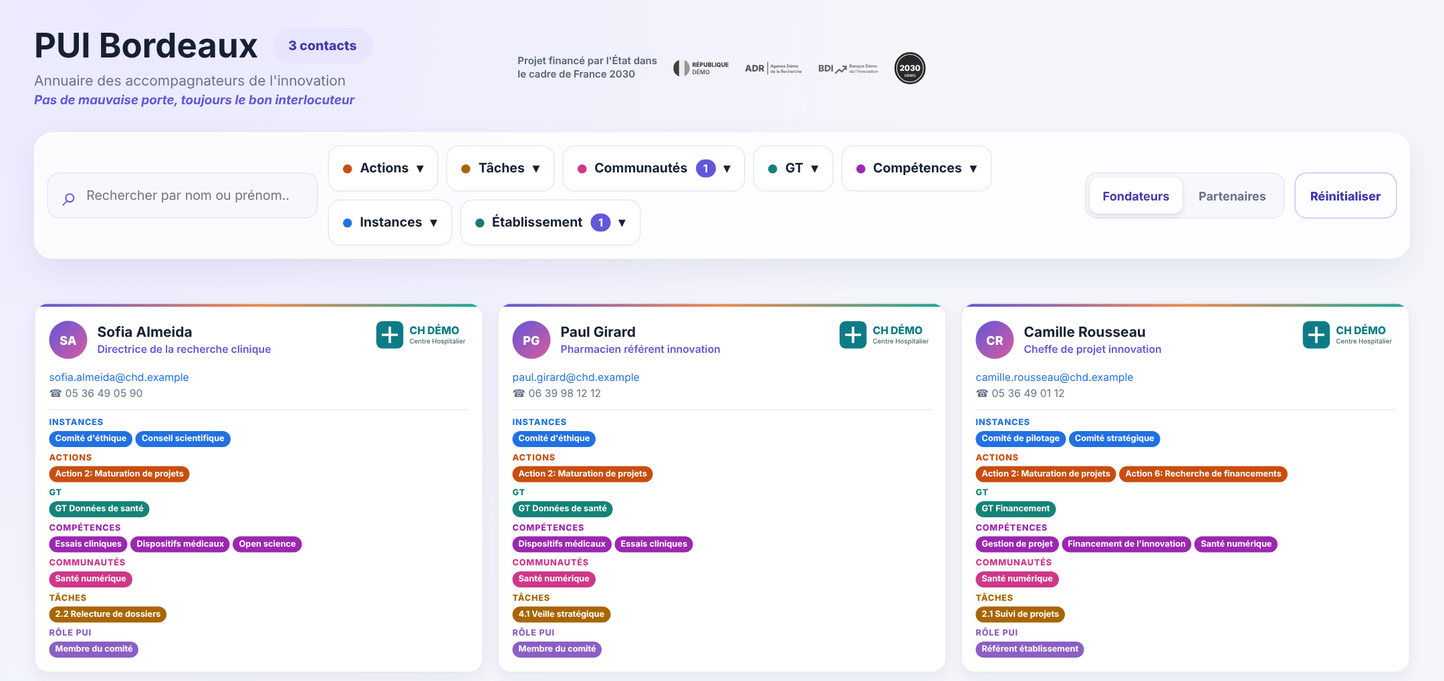
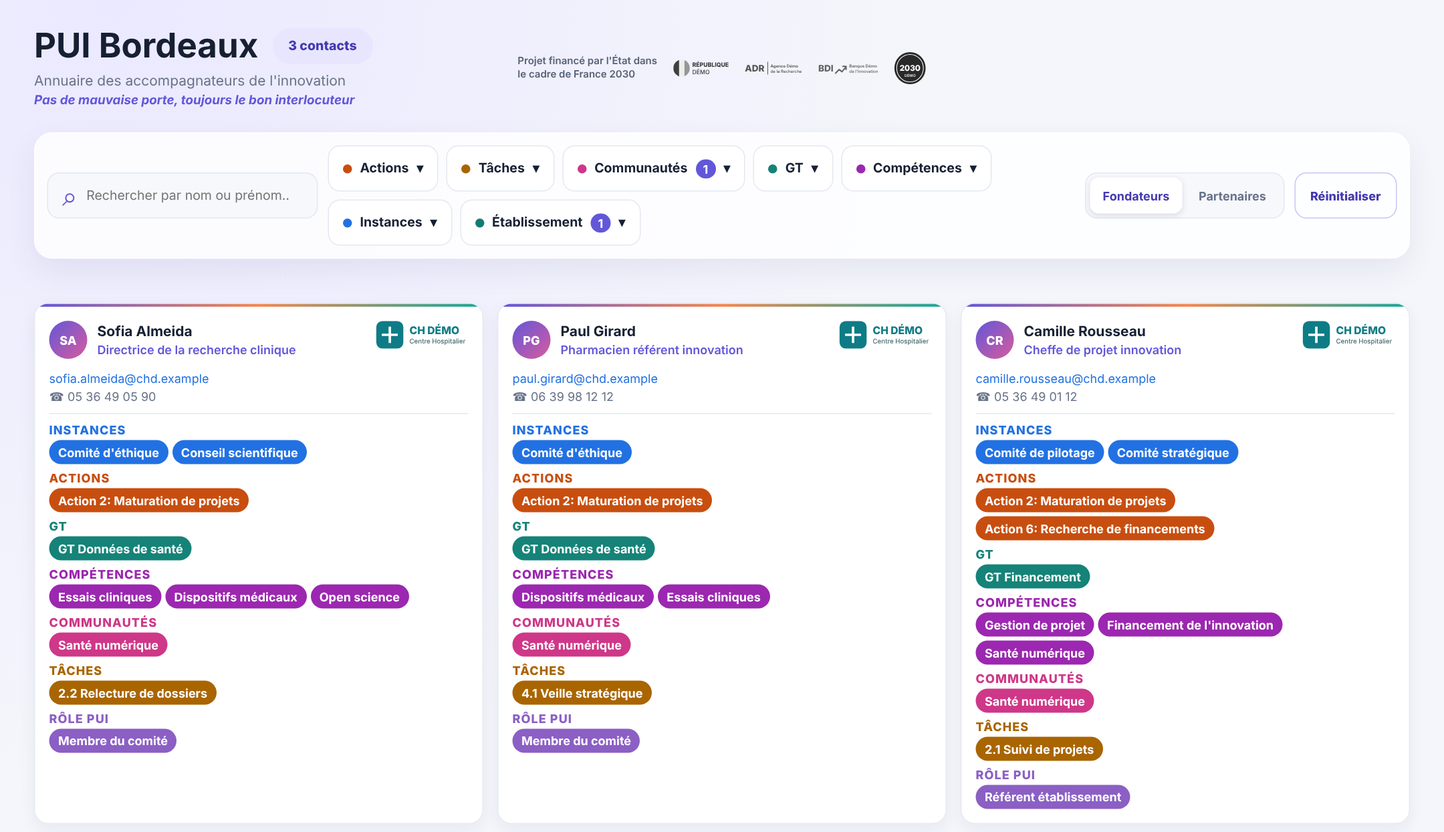
Documente la 1.17.1 (texte de 12 px, pastilles de 24 px) et refait quinze captures
CHANGELOG, VERSION, TESTING (sections 12 et 15), guide développeur, guide
utilisateur et spécifications. Le capturer s'adapte aux cartes plus hautes : la
légende demande une fenêtre de 3 600 px, la relecture lève le plafond de 900 px
de la fenêtre le temps de la capture.

Claude-Session: https://claude.ai/code/session_01BNmTXMLnSaUb1ryMSiNH6K

diff --git a/docs/developpeurs.md b/docs/developpeurs.md
@@ -554,7 +554,7 @@ La gestion du jeton est volontairement prudente, parce que Grist ne met pas ses 
 - `createFilterUI()` construit tous les menus (`buildFilter()` → `buildFilterMenu()` → `buildOption()`). Chaque option porte sa valeur dans `data-value` : le texte affiché n'est pas la source. L'infobulle du bouton (`hint`) et le texte d'invite du champ de recherche (`placeholder`) sont ceux du regroupement du menu (`macro` pour Compétences, `macroTaches` pour Tâches), et seulement tant que le menu est rangé par groupe (`groupingWording()`) : resté à plat, il garde « Rechercher dans … » et n'a pas d'infobulle. Le texte d'invite est assez court pour ne pas être coupé dans un menu de 270px : un test en fixe la longueur.
 - **Le menu rangé par groupe** (`buildGroupedMenu()` → `buildGroup()`, quand `menuGroups()` n'est pas `null`) montre une ligne par groupe (un domaine, une action) : une vraie case à cocher (« partielle » par `indeterminate`, `paintGroup()`), le nombre de cartes, et un bouton flèche qui déplie les compétences (`aria-expanded`, `aria-controls`, `aria-label` « Détail de … »). Les domaines sont repliés au départ ; le repli passe par la classe `open`, jamais par l'attribut `hidden`, que le CSS impose en `display: none !important`. Le champ de recherche du menu trouve un domaine comme une compétence (`searchGroups()`) : un domaine dont le nom correspond garde toutes ses compétences, un autre seulement celles qui correspondent ; tant qu'on cherche, tout est déplié (classe `searching`). Rien ne bouge pendant qu'on coche : c'est `settleGroupedMenu()`, à l'ouverture du menu, qui remet en tête les domaines et les compétences cochés et déplie les domaines cochés en partie.
 - `updateFilterUI()` met à jour **un seul menu** (cases, ordre, compteur du bouton) après un clic sur une case, un tag de carte ou un badge d'établissement ; `updateFilterCounts()` rafraîchit les compteurs de tous les menus. Aucun des deux ne reconstruit les menus : cela fermerait un menu ouvert et effacerait la saisie en cours dans sa recherche interne. Les menus ne sont reconstruits (`rebuildFilterUI()`) que par « Réinitialiser », précisément pour vider ces champs, et quand un rechargement apporte des libellés différents.
-- Mise en page : le widget s'adapte à la largeur de son cadre Grist, sans largeur minimale (`.widget-shell` garde `max-width: 1480px`). Les seuils de `style.css` sont ceux du cadre, pas de l'écran (l'en-tête a les siens : [Habillage](#habillage--logos-et-pièces-jointes)) : sous 1400px les filtres passent sous la recherche, sous 840px les cartes se mettent sur deux colonnes, sous 600px sur une seule avec une barre d'outils empilée et un texte plus grand. Un écran tactile (`pointer: coarse`) reçoit en plus des cibles d'au moins 28px et des champs à 16px, et le survol n'y reste pas collé (`hover: none`). À partir de 1400px, la mise en page est celle de départ. `keepMenuInView()` (`render.js`) décale un menu de filtre qui sortirait du cadre à droite. Tests : `tests/responsive.test.mjs` ; protocole manuel : [`TESTING.md`](../TESTING.md), section 12 ; exigence : [`specs.md`](../specs.md).
+- Mise en page : le widget s'adapte à la largeur de son cadre Grist, sans largeur minimale (`.widget-shell` garde `max-width: 1480px`). Les seuils de `style.css` sont ceux du cadre, pas de l'écran (l'en-tête a les siens : [Habillage](#habillage--logos-et-pièces-jointes)) : sous 1400px les filtres passent sous la recherche, sous 840px les cartes se mettent sur deux colonnes, sous 600px sur une seule avec une barre d'outils empilée et un nom de carte plus grand (le texte des cartes, lui, fait 12px au moins à toute largeur : [Accessibilité](#accessibilité--noms-focus-et-contrastes)). Un écran tactile (`pointer: coarse`) reçoit en plus des cibles d'au moins 28px et des champs à 16px, et le survol n'y reste pas collé (`hover: none`). À partir de 1400px, la mise en page est celle de départ. `keepMenuInView()` (`render.js`) décale un menu de filtre qui sortirait du cadre à droite. Tests : `tests/responsive.test.mjs` ; protocole manuel : [`TESTING.md`](../TESTING.md), section 12 ; exigence : [`specs.md`](../specs.md).
 
 ## Accessibilité : noms, focus et contrastes
 
@@ -566,8 +566,9 @@ Les règles qui tiennent l'accessibilité du widget (WCAG 2.2 AA, constats de l'
 - **Le champ de recherche est l'exception, par construction.** Son `<input>` n'a ni bordure ni coins : un anneau posé dessus tomberait au milieu du cadre. C'est le cadre qui le porte (`.search-box:focus-within`, loupe comprise, coins arrondis) et le test lit le style de ce cadre quand l'élément qui a le focus est le champ. La recherche à l'intérieur d'un menu (`.filter-search-input`) garde sa bordure violette au focus et reçoit en plus l'anneau commun.
 - **Le test du parcours au clavier** (`tabStops` dans `tests/accessibility.test.mjs`) appuie sur Tab jusqu'au bout de la page, puis reprend chaque capture sans le focus : deux captures identiques, c'est un focus invisible. Il vérifie aussi que l'anneau est plein, de 2 px au moins et de 3:1 au moins (`tests/support/contrast.mjs`, formule WCAG) contre le fond le plus sombre où il se pose. Le curseur de saisie, qui clignote, y est rendu transparent : sinon il suffirait à différencier deux captures d'un champ sans anneau. La fenêtre du navigateur y est assez haute pour que la page ne défile pas, donc les coordonnées de l'écran sont celles de la page. Un menu ouvert est parcouru à part.
 - **Les contrastes de couleur** se calculent avec `contrastRatio` (`tests/support/contrast.mjs`), à partir des couleurs que le navigateur calcule (`getComputedStyle`) : une couleur translucide est d'abord posée sur son fond. Seuils : 4,5:1 pour du texte courant, 3:1 pour du gros texte (14 px gras ou 18 px) et pour un élément d'interface.
-- **La couleur d'une catégorie garde 4,5:1 avec le blanc.** Elle sert de fond à du texte blanc de 8,5 px (les pastilles) et de couleur de texte sur blanc (les titres de groupe, ceux de la fenêtre de modification) : `CATEGORIES[…].color` dans `constants.js`, lue partout ailleurs. Pour en changer une, la foncer à teinte constante (baisser la luminosité) plutôt que d'en prendre une plus claire. Le lien e-mail prend `--blue` (`style.css`), qui garde la même exigence. Deux tests sans navigateur (`tests/accessibility.test.mjs`) lisent `constants.js` et `style.css`, y compris pour une catégorie ajoutée plus tard ; un test navigateur mesure la page rendue. `--orange`, `--teal` et `--pink` ne portent aucun texte (filet des cartes, avatar, ✦ de l'état vide) : ils ne sont pas concernés.
+- **La couleur d'une catégorie garde 4,5:1 avec le blanc.** Elle sert de fond à du texte blanc de 12 px (les pastilles) et de couleur de texte sur blanc (les titres de groupe, ceux de la fenêtre de modification) : `CATEGORIES[…].color` dans `constants.js`, lue partout ailleurs. Pour en changer une, la foncer à teinte constante (baisser la luminosité) plutôt que d'en prendre une plus claire. Le lien e-mail prend `--blue` (`style.css`), qui garde la même exigence. Deux tests sans navigateur (`tests/accessibility.test.mjs`) lisent `constants.js` et `style.css`, y compris pour une catégorie ajoutée plus tard ; un test navigateur mesure la page rendue. `--orange`, `--teal` et `--pink` ne portent aucun texte (filet des cartes, avatar, ✦ de l'état vide) : ils ne sont pas concernés.
 - **L'interrupteur de présence** (constats U47 à U49). Pendant l'écriture il reçoit `aria-disabled="true"` et non `disabled` : un bouton désactivé perd le focus, et `account-ui.js` ignore alors les clics. Sa piste et son curseur portent seuls l'état (le texte du bouton ne change pas) : 3:1 au moins avec leur fond, éteint comme allumé (`#7d879c` et `#147c72` dans `style.css`, pas `--teal`). Le résultat d'une bascule réussie est dit par la région d'état du bandeau (`announce()`, ton `done`, classe `.sr-only`) et pas affiché, puisque l'écran le montre déjà : n'utilisez ce ton que pour ce que l'écran dit déjà, car l'attente et les erreurs doivent se voir. Le test regarde le rognage (`clip-path`) et non la seule taille de la boîte, parce qu'une erreur garde ses marges et sa bordure même quand `.sr-only` la rogne. En `forced-colors: active`, le navigateur remplace les fonds : la piste prend alors des couleurs système et une bordure, et le curseur reste centré malgré elle ; avec `prefers-reduced-motion: reduce`, la piste et le curseur n'ont plus de transition. Les tests l'émulent avec `page.emulateMedia({ forcedColors, reducedMotion })` (`tests/accessibility.test.mjs`) ; le focus, l'annonce et son effacement, sur une horloge simulée, sont dans `tests/e2e.test.mjs`.
+- **Le texte des cartes fait 12 px au moins et les pastilles 24 px de haut** (constats U20 et U08). Le plancher est celui de la feuille de base de `style.css`, à la souris comme au doigt, sous 600 px comme au-dessus : le bloc « Petit écran ou écran tactile » ne grossit plus que le nom de la carte et l'écart entre les pastilles (il redéfinissait chaque taille, ce qui laissait 8,5 px à tout le bureau). Une nouvelle étiquette, un nouveau badge ou un nouveau bouton dans une carte ne descend pas sous 12 px et prend `min-height: 24px` (WCAG 2.5.8). Seul le lien e-mail, qui fait 15 px de haut, reste sous 24 px : il tient par l'exception d'espacement de la norme, un cercle de 24 px centré sur lui ne touche aucune autre cible, et il faut le garder isolé (y compris du bouton « Modifier » qui le précède sur la carte de la personne connectée). `measureCards` (`tests/support/card-metrics.mjs`) mesure cela sur la page rendue (texte affiché sous 12 px, pastilles ou boutons sous 24 px de haut, petites cibles trop proches d'une autre) : `tests/responsive.test.mjs` l'applique de 320 à 1 920 px, à la souris puis au doigt, et `tests/accessibility.test.mjs` sur la carte de la personne connectée (« Votre fiche », « Modifier »), qui n'existe pas dans le jeu de la mise en page. Restent hors de cette règle, comme le dit le CHANGELOG (1.17.1) : l'en-tête, le bandeau des fondateurs, les repères de la fenêtre de relecture, et les unités, toujours en `px`.
 - **Ce qui n'est pas vérifié** : un lecteur d'écran réel (NVDA, VoiceOver, TalkBack), Firefox et Safari ; c'est le protocole manuel de [`TESTING.md`](../TESTING.md#15-clavier-et-lecteur-décran-1141). Restent ouverts dans l'audit UI/UX, pour d'autres lots : la sémantique des menus de filtres (`aria-expanded`, Échap pour les fermer), l'ordre de tabulation dans les menus et la région que les lecteurs d'écran relisent (toute la grille de cartes).
 
 ## Fiabilité : que se passe-t-il en cas de panne ?
@@ -657,12 +658,12 @@ npx playwright install chromium         # ou CHROMIUM_PATH=/chemin/vers/chromium
 | `tests/e2e-profile.test.mjs` | Le même `index.html` : qui voit un bouton « Modifier », le mode admin, le formulaire, la relecture avant/après, l'écriture, la confirmation, l'e-mail et l'établissement d'une autre personne, les refus, les conflits, l'accessibilité de la fenêtre, y compris dans un cadre étroit |
 | `tests/branding-e2e.test.mjs` | Le même `index.html` avec des logos servis par `tests/support/fake-attachments.mjs` : logo seul sur les cartes, nom de repli, financeurs, bandeau des fondateurs, relecture, jeton refusé ou absent, fichier supprimé ou illisible, aucune trace du jeton dans la console |
 | `tests/branding-layout.test.mjs` | Le même `index.html` de 320 à 1920px avec des logos de formes variées : en-tête (titre, financeurs, profil), logos dans leur case, bandeau qui se replie, rien qui dépasse |
-| `tests/responsive.test.mjs` | Le même `index.html` de 280 à 1920px de large, sur un jeu de données chargé (`tests/fixtures-responsive.mjs`) : pas de défilement horizontal, texte contenu dans les cartes, colonnes, barre d'outils, menus de filtres dans le cadre (dont les menus Compétences et Tâches dépliés, et un libellé de compétence ou d'action au nom très long), cibles tactiles, tailles de texte |
-| `tests/accessibility.test.mjs` | Le clavier et le lecteur d'écran : le champ de recherche nommé (et son nom reprend le texte visible), aucun contrôle sans nom dans l'arbre d'accessibilité, parcours complet à la tabulation (anneau visible, plein, de 2 px et de 3:1 au moins, page puis menu ouvert), pastilles, titres de groupe et lien e-mail d'une carte mesurés sur la page rendue (4,5:1 au moins), piste et curseur de l'interrupteur de présence mesurés eux aussi (3:1 au moins, éteint et allumé), en contraste forcé émulé (bordure, curseur distinct de la piste, états différents, curseur centré) et sans transition quand on réduit les animations ; sans navigateur, les rapports de contraste de référence, la garde sur `outline: 0` dans les feuilles de style, le contraste de chaque couleur de catégorie et du lien e-mail, et celui de la piste et du curseur lus dans `style.css`. Les contrastes passent par `tests/support/contrast.mjs` |
+| `tests/responsive.test.mjs` | Le même `index.html` de 280 à 1920px de large, sur un jeu de données chargé (`tests/fixtures-responsive.mjs`) : pas de défilement horizontal, texte contenu dans les cartes, colonnes, barre d'outils, menus de filtres dans le cadre (dont les menus Compétences et Tâches dépliés, et un libellé de compétence ou d'action au nom très long), cibles tactiles, taille du texte des cartes (12 px au moins à toute largeur), pastilles de 24 px de haut, petites cibles isolées |
+| `tests/accessibility.test.mjs` | Le clavier et le lecteur d'écran : le champ de recherche nommé (et son nom reprend le texte visible), aucun contrôle sans nom dans l'arbre d'accessibilité, parcours complet à la tabulation (anneau visible, plein, de 2 px et de 3:1 au moins, page puis menu ouvert), pastilles, titres de groupe et lien e-mail d'une carte mesurés sur la page rendue (4,5:1 au moins), piste et curseur de l'interrupteur de présence mesurés eux aussi (3:1 au moins, éteint et allumé), en contraste forcé émulé (bordure, curseur distinct de la piste, états différents, curseur centré) et sans transition quand on réduit les animations ; sans navigateur, les rapports de contraste de référence, la garde sur `outline: 0` dans les feuilles de style, le contraste de chaque couleur de catégorie et du lien e-mail, et celui de la piste et du curseur lus dans `style.css`. Sur la carte de la personne connectée : « Votre fiche » et « Modifier » à 12 px, le bouton à 24 px de haut, le lien e-mail à l'écart. Les contrastes passent par `tests/support/contrast.mjs`, les tailles par `tests/support/card-metrics.mjs` |
 | `tests/docs.test.mjs` | La documentation ne se périme pas : liens, noms de fonctions cités, jeu de données fictif et personnes de démonstration, serveur de démonstration, schéma des imports, messages du guide cités, affirmations de sécurité (aucun appel réseau, aucun stockage, méthodes de l'API Grist employées) |
 
 - **Version de Node.** Le dépôt n'a pas de `package.json` : Node ne reconnaît les modules ES écrits en `.js` que grâce à la détection automatique de la syntaxe, activée par défaut depuis Node 20.19 et 22.7. En dessous (Node 18, 21, 22.6…), les tests échouent avec « Named export … not found » : c'est l'environnement qui est en cause, pas le code. Le serveur de démonstration, en `.mjs`, démarre dès Node 18.
-- Les tests unitaires n'ont aucune dépendance. `tests/e2e.test.mjs`, `tests/e2e-taches.test.mjs`, `tests/e2e-profile.test.mjs`, `tests/responsive.test.mjs`, `tests/branding-e2e.test.mjs`, `tests/branding-layout.test.mjs` et, pour huit de ses treize tests, `tests/accessibility.test.mjs` ont besoin de Playwright et de Chromium (`tests/support/browser.mjs` sert à tous sauf `tests/responsive.test.mjs` et `tests/branding-layout.test.mjs`, qui lancent Chromium eux-mêmes) ; sans eux leurs scénarios sont ignorés et `node --test` reste vert. La CI définit `REQUIRE_E2E=1` : un navigateur absent y est un échec, pas un « tout vert » sur des tests ignorés.
+- Les tests unitaires n'ont aucune dépendance. `tests/e2e.test.mjs`, `tests/e2e-taches.test.mjs`, `tests/e2e-profile.test.mjs`, `tests/responsive.test.mjs`, `tests/branding-e2e.test.mjs`, `tests/branding-layout.test.mjs` et, pour neuf de ses quatorze tests, `tests/accessibility.test.mjs` ont besoin de Playwright et de Chromium (`tests/support/browser.mjs` sert à tous sauf `tests/responsive.test.mjs` et `tests/branding-layout.test.mjs`, qui lancent Chromium eux-mêmes) ; sans eux leurs scénarios sont ignorés et `node --test` reste vert. La CI définit `REQUIRE_E2E=1` : un navigateur absent y est un échec, pas un « tout vert » sur des tests ignorés.
 - Le test navigateur est isolé du réseau : seuls le serveur local, l'API Grist simulée et ses pièces jointes (les logos) répondent, tout le reste est bloqué.
 - Limite assumée : l'API Grist est simulée, avec des données aux encodages observés en production. Ces tests garantissent que le vrai `main.js` et le vrai `render.js` réagissent correctement à ces encodages et à ces pannes ; ils ne garantissent pas que Grist les envoie toujours. Le faux document ne reproduit ni les règles d'accès de Grist ni le calcul réel des formules : il ne rejoue que le résultat attendu de la formule de la sonde (`Email` = adresse de la personne, `Admin` d'après `ACL`). D'où le protocole manuel de [`TESTING.md`](../TESTING.md), à jouer dans un vrai document avant un déploiement qui touche `main.js`, `render.js`, `index.html` ou `style.css`.
 - Chaque correction s'accompagne d'un test de non-régression, dans le fichier du module concerné. Une fonction ajoutée à `grist-data.js` ou `filters.js` a son test ; un changement d'affichage adapte ou ajoute un scénario de `tests/e2e.test.mjs` (ou de `tests/e2e-profile.test.mjs` pour la fenêtre de modification), un changement de mise en page (`style.css`) un scénario de `tests/responsive.test.mjs`, et un nouveau contrôle ou un changement de focus ou de couleur un test de `tests/accessibility.test.mjs` ([Accessibilité](#accessibilité--noms-focus-et-contrastes)).
@@ -703,6 +704,7 @@ Règles :
 
 - **Rien de réel dans le dépôt.** Les personnes, les établissements et leurs logos (des dessins inventés) sont inventés, les adresses se terminent par `.example` (domaine réservé à la documentation, RFC 2606) et les numéros appartiennent au plan réservé à la fiction (`05 36 49 xx xx`, `06 39 98 xx xx`, décision ARCEP n° 2018-0881). `tests/docs.test.mjs` le vérifie.
 - Après toute modification de l'interface, relancer `docs/demo/capturer.mjs`, regarder les images et les committer avec le changement.
+- Deux captures dépendent de la hauteur des cartes (texte de 12 px, 1.17.1). `docs/images/carte-anatomie.png` demande une fenêtre de 3 600 px : la carte de Camille Rousseau est loin dans la liste (cartes triées par nom) et ses repères sont fixés à l'écran. `docs/images/modifier-fiche-relecture.png` lève le plafond de 900 px de la fenêtre (`dialogs.css`) le temps de la capture, parce que la relecture le dépasse : sur un écran réel, son corps défile. Si une capture échoue avec « Clipped area is either empty or outside the resulting image », la fenêtre est trop basse pour la zone demandée.
 - Quand la structure Grist change, adapter `docs/demo/donnees-fictives.mjs` : `tests/docs.test.mjs` échoue tant que le jeu fictif n'est pas lu sans erreur par le vrai `loadDirectory()`.
 - Dans le jeu fictif, tout le monde a accepté d'apparaître (`Accepte_apparaitre`) sauf une personne qui a refusé : seuls les établissements et le périmètre décident des autres. `PERSONNES_DEMO` désigne une personne qui apparaît, une d'un établissement partenaire, une qui a refusé, une qui a accepté mais reste masquée (son établissement n'est pas validé) et un administrateur : ce sont elles que photographient les captures « Ma présence » (les quatre captures de la modification d'une fiche, le bouton, le formulaire, la relecture et la confirmation, sont celles de la personne qui apparaît, les trois dernières montrant la même modification ; les deux captures du mode admin sont celles de l'administrateur), et `tests/docs.test.mjs` vérifie que le bandeau dit pour chacune ce que le guide annonce.
 - Les écritures de la démonstration (l'interrupteur « Ma présence » comme la modification d'une fiche) vivent en mémoire dans la page : recharger la page repart du jeu d'origine, et aucun fichier n'est modifié.

diff --git a/CHANGELOG.md b/CHANGELOG.md
@@ -1,5 +1,90 @@
 # Changelog
 
+## 1.17.1 — Texte de 12 px au moins, pastilles de 24 px de haut
+
+Cinquième des six « gains rapides » de l'audit UI/UX (Antoine a lancé le lot le 12 octobre 2026, un gain
+par version), pour les constats **U20** (texte trop petit) et **U08** (cibles trop petites à la souris).
+**C'est le gain du lot qui change le plus l'aspect des cartes, et il s'écarte de la maquette v5 validée**,
+qui dessinait un texte de 8,5 à 10,5 px : tout le texte des cartes fait maintenant 12 px au moins et les
+pastilles 24 px de haut. Les cartes sont donc plus hautes (d'un tiers environ) et il en tient moins par
+écran. Un seul fichier de code porte le changement, `style.css` : revenir à la maquette, c'est
+`git revert` de la fusion de cette version.
+
+- **Pourquoi.** L'audit comptait 91 % des caractères des cartes sous 12 px (dont 71 % à 8,5 px) et 202
+  pastilles sur 202 sous les 24 px de haut qu'exige WCAG 2.5.8 (niveau AA) pour une cible à la souris :
+  elles en faisaient 16, et selon la largeur de 72 à 100 d'entre elles échouaient même à l'exception
+  d'espacement. Depuis la 1.9.1, un écran tactile ou un cadre de moins de 600 px avait déjà un texte un peu
+  plus grand (10 à 12 px) et des cibles de 28 px ; cette version donne le même plancher à tout le monde,
+  sans condition de largeur ni de pointeur.
+- **Ce qui change.** Sous 600 px ou au doigt, la taille d'avant est celle de la parenthèse :
+
+  | Élément | Avant | Après |
+  |---|---|---|
+  | Pastille (`.tag`) | 8,5 px (11 px), 16 px de haut | 12 px, 24 px de haut au moins, marges de 9 px, 4 px entre deux pastilles |
+  | Titre de groupe (`.tag-group-title`) | 8,5 px (10 px) | 12 px |
+  | Badge de l'établissement en texte, sans logo (`.etablissement-tag`) | 8,5 px (10 px), 16 px de haut, 96 px de large au plus | 12 px, 24 px de haut au moins, 136 px de large au plus (la même place pour les lettres qu'avant) |
+  | Fonction (`.fonction`) | 10,5 px (12 px) | 12 px |
+  | E-mail et téléphone (`.detail-row`) | 10,5 px (12 px) | 12 px |
+  | « Votre fiche » (`.own-flag`) | 9,5 px (11 px) | 12 px |
+  | « Modifier » (`.card-edit`) | 10,5 px (12 px) | 12 px, 24 px de haut au moins |
+  | Nombre d'un bouton de filtre et d'une option de menu (`.filter-count`, `.option-count`) | 11 px | 12 px |
+
+  Le nom (14 px, 15 px sous 600 px), le titre de la page et les cibles tactiles de 28 px ne changent pas.
+  Le bloc « Petit écran ou écran tactile » de `style.css` ne garde que le nom à 15 px et l'écart de 5 px
+  entre les pastilles : le reste est dans la feuille de base. **La fenêtre de relecture** (cartes « Avant »
+  et « Après » de « Modifier ma fiche ») utilise les mêmes cartes : elle suit, et passe d'environ 860 px de
+  haut à 960 px, donc au-dessus du plafond de 900 px de la fenêtre (`dialogs.css`) : son corps défile de
+  60 px, y compris sur un grand écran, où il tenait en entier.
+- **Ce que ça donne.** Mesuré sur la démonstration de 14 contacts (`docs/demo/serveur-demo.mjs`), avant et
+  après :
+
+  | Largeur | Hauteur moyenne d'une carte | Hauteur de la page |
+  |---|---|---|
+  | 1 440 px | 362 → 486 px (+34 %) | 2 463 → 3 093 px (+26 %) |
+  | 768 px | 355 → 467 px (+32 %) | 3 227 → 4 010 px (+24 %) |
+  | 390 px | 407 → 442 px (+9 %) | 6 722 → 7 212 px (+7 %) |
+
+  La part des caractères des cartes sous 12 px passe de 95 % à 0 % (de 73,5 % à 0 % à 390 px). Sur un écran
+  de 1 440 × 900 px, la première rangée de trois cartes tient toujours, mais on voit moins de la deuxième : le
+  prix de la lisibilité est une page plus longue d'un quart environ, ce qui compte pour les quelque
+  400 contacts de l'annuaire réel.
+- **Cibles (WCAG 2.5.8).** Les 119 pastilles de la démonstration font 24 px de haut et plus de 70 px de large :
+  aucune n'est sous le seuil. Le lien e-mail (12 px de texte, 15 px de haut) n'est pas agrandi : il tient par
+  l'exception d'espacement de la norme, un cercle de 24 px centré sur lui ne touche aucune autre cible, de
+  320 à 1 920 px, y compris le bouton « Modifier » qui le précède sur la carte de la personne connectée ; un
+  test le garde. Avant, la démonstration comptait 128 cibles sous 24 px, dont jusqu'à 30 (à 600 px) qui
+  échouaient même à l'exception.
+- **Reste ouvert dans l'audit.** Cette version porte sur les cartes. Pas traités : les textes de l'en-tête
+  (« Projet financé par l'État… » à 10 px, noms des financeurs à 11 px) et du bandeau des fondateurs, les
+  repères « avant / après » de la fenêtre de relecture (`.mk-pill`, 8,5 px), les unités en `px` (la
+  préférence de taille de police du navigateur n'agit toujours pas, le zoom oui ; passer en `rem` serait un
+  chantier de plus) et les 44 px recommandés au doigt pour les boutons de filtre (42 px sous 600 px) et
+  Fondateurs / Partenaires (36 px).
+- **Pour les développeurs** : `tests/support/card-metrics.mjs` (nouveau) mesure la page rendue : taille du
+  texte, hauteur des pastilles, isolement des petites cibles. La section « Accessibilité » de
+  `docs/developpeurs.md` a une règle de plus (le plancher de 12 px et les 24 px), `TESTING.md` (sections 12
+  et 15) deux contrôles à l'œil pour un vrai Grist, et `specs.md` une exigence de lisibilité.
+- **Tests** : 657 tests (232 dans un vrai navigateur, optionnels sans Playwright), 5 de plus qu'à la
+  1.16.3 (4 dans `tests/responsive.test.mjs`, 1 dans `tests/accessibility.test.mjs`). Dans `tests/responsive.test.mjs` : le test des tailles de texte « le bureau garde ses
+  tailles » est remplacé par « le texte des cartes fait 12 px à toute largeur » (14 px pour le nom sur
+  ordinateur, 15 px sous 600 px) ; à la souris, de 320 à 1 920 px, aucun texte de carte sous 12 px et aucune
+  pastille ou badge sous 24 px de haut ; la même mesure au doigt (414 et 820 px) ; chaque cible de moins de
+  24 px est isolée des autres (le cercle de la norme) ; les nombres des filtres font 12 px. Dans
+  `tests/accessibility.test.mjs` : sur la carte de la personne connectée, « Votre fiche » et « Modifier »
+  font 12 px, le bouton 24 px de haut, et le lien e-mail reste à l'écart de ce bouton. Les six tests écrits
+  ou réécrits échouent tous sur la feuille de style de la 1.16.3. Dix-neuf variantes fautives de
+  `style.css` (chaque taille remise à l'ancienne valeur, chaque hauteur ou marge retirée, les anciennes
+  tailles rétablies sous 600 px ou au doigt, le lien e-mail collé au bouton « Modifier », les pastilles
+  remontées sur le lien e-mail) ont été essayées une à une, le fichier étant remis en état après chacune :
+  toutes font échouer au moins un test.
+- **Documentation** : quinze captures sont refaites (aperçu, cartes sans logo, quatre menus de filtre, filtres
+  combinés, partenaires, recherche, bandeau de données partielles, légende de la carte, bouton, relecture et
+  confirmation de « Modifier ma fiche », mode admin) ; les huit autres sont celles de la 1.16.3 (les images où
+  seule bougeait la marge ou le décalage d'un demi-pixel n'ont pas été remplacées). `docs/demo/capturer.mjs`
+  s'adapte aux cartes plus hautes : la légende demande une fenêtre de 3 600 px (la carte de Camille Rousseau est
+  loin dans la liste) et la relecture lève le plafond de 900 px de la fenêtre le temps de la capture, puisqu'elle
+  le dépasse maintenant.
+
 ## 1.16.3 — Interrupteur de présence : focus gardé, réussite annoncée, contrastes
 
 Quatrième des six « gains rapides » de l'audit UI/UX (Antoine a lancé le lot le 12 octobre 2026, un

diff --git a/TESTING.md b/TESTING.md
@@ -96,13 +96,16 @@ Sans dépendance, un fichier de tests par module :
   fichier qui n'est pas une image, et un compte des téléchargements et des jetons employés.
 - `tests/support/contrast.mjs` — le rapport de contraste WCAG (`contrastRatio`, `parseColor`) à
   partir des couleurs calculées par le navigateur, pour les tests d'accessibilité.
+- `tests/support/card-metrics.mjs` — la taille du texte et des cibles des cartes sur la page rendue
+  (`measureCards` : texte sous 12px, pastilles ou boutons sous 24px de haut, petites cibles trop près
+  d'une autre), pour `tests/responsive.test.mjs` et `tests/accessibility.test.mjs`.
 - `tests/constants.test.mjs` — cohérence de la taxonomie (`constants.js`),
   table principale `BDD`, libellé corrigé avant le libellé brut.
 - `tests/rules.test.mjs` — règle du projet : aucun fichier de code ne lit la
   colonne `nom_de_domaine`.
 
 Avec Playwright (`npm install --no-save playwright`, puis
-`npx playwright install chromium`), `tests/e2e.test.mjs` exécute en plus 69
+`npx playwright install chromium`), `tests/e2e.test.mjs` exécute en plus 72
 scénarios dans un vrai navigateur sur les données de `tests/fixtures.mjs`
 (structure `BDD`) : nombre de contacts et badge établissement de chaque carte, cartes triées
 par nom (même quand Grist envoie les lignes dans le désordre), interrupteurs
@@ -141,14 +144,15 @@ texte, un refus de Grist, un changement concurrent, une fiche supprimée, le dou
 rangé sous la fonction, le bandeau « Ma présence » qui ne se chevauche à aucune largeur et
 l'affichage de 280 à 360px.
 
-`tests/responsive.test.mjs` y ajoute 20 scénarios sur la mise en page, de 280 à
+`tests/responsive.test.mjs` y ajoute 24 scénarios sur la mise en page, de 280 à
 1920px de large, sur un jeu de données chargé (`tests/fixtures-responsive.mjs` :
 noms, e-mails, fonctions et tags très longs, dont certains sans point de
 coupure) : aucun défilement horizontal, texte contenu dans les cartes, nom
 jamais sous le badge de l'établissement, trois, deux puis une colonne, barre
 d'outils, menus de filtres (les menus Compétences et Tâches dépliés compris) entièrement
 dans le cadre, cibles tactiles (écran
-tactile émulé), tailles de texte, bandeau d'erreur et état vide à 320px, et
+tactile émulé), taille du texte des cartes (12px au moins à toute largeur, souris ou doigt), pastilles de
+24px de haut et petites cibles isolées (WCAG 2.5.8), bandeau d'erreur et état vide à 320px, et
 mise en page de référence à partir de 1400px. Les barres de défilement y sont
 visibles (15px de moins), le cas le plus serré.
 
@@ -160,14 +164,17 @@ supprimé ou illisible, aucune trace du jeton dans la console, relecture d'une f
 `tests/branding-layout.test.mjs` y ajoute 13 scénarios sur la mise en page de l'habillage, de
 320 à 1920px : en-tête (titre, financeurs, profil), logos de formes variées dans leur case,
 bandeau du bas qui se replie, rien qui dépasse du cadre.
-`tests/accessibility.test.mjs` y ajoute 5 scénarios (et 4 tests sans navigateur : les rapports de
+`tests/accessibility.test.mjs` y ajoute 9 scénarios (et 5 tests sans navigateur : les rapports de
 contraste de référence, une garde sur les feuilles de style qui refuse tout `outline: 0` ou
-`outline: none` non justifié, et le contraste de chaque couleur de catégorie et du lien e-mail) sur le
-clavier, le lecteur d'écran et les couleurs : le champ de recherche nommé par son rôle, aucun contrôle sans
-nom dans l'arbre d'accessibilité (page au repos, menu ouvert), le parcours complet à la tabulation (page,
-puis menu ouvert) où chaque arrêt change de capture avec et sans focus, avec un anneau plein de 2 px au
-moins et de 3:1 au moins, et les pastilles, les titres de groupe et le lien e-mail d'une carte mesurés sur
-la page rendue (4,5:1 au moins).
+`outline: none` non justifié, le contraste de chaque couleur de catégorie et du lien e-mail, et celui de la
+piste et du curseur de l'interrupteur de présence) sur le clavier, le lecteur d'écran et les couleurs : le
+champ de recherche nommé par son rôle, aucun contrôle sans nom dans l'arbre d'accessibilité (page au repos,
+menu ouvert), le parcours complet à la tabulation (page, puis menu ouvert) où chaque arrêt change de capture
+avec et sans focus, avec un anneau plein de 2 px au moins et de 3:1 au moins, les pastilles, les titres de
+groupe et le lien e-mail d'une carte mesurés sur la page rendue (4,5:1 au moins), la piste et le curseur
+de l'interrupteur (3:1 au moins, en contraste forcé et sans transition quand on réduit les animations), et,
+sur la carte de la personne connectée, « Votre fiche » et « Modifier » à 12px, le bouton à 24px de haut et
+le lien e-mail à l'écart de ce bouton.
 
 Limite assumée : l'API Grist y est simulée (`tests/support/fake-grist.js` :
 `docApi.fetchTable` sur des données aux encodages observés en production, et des
@@ -539,6 +546,14 @@ iOS, Chrome Android) que les tests ne couvrent pas :
 - [ ] Téléphone ou tablette : toucher le champ de recherche ne zoome pas la page
       (champs à 16px), les badges, tags et le lien e-mail se touchent sans
       viser, et un filtre touché ne reste pas coloré une fois relâché.
+- [ ] **Texte des cartes** (1.17.1) : à 1 440 px comme à 390 px, étiquettes, titres de groupe, fonction, e-mail,
+      téléphone, « Votre fiche » et « Modifier » ont la même taille (12px) et se lisent sans effort ; seul le nom
+      grossit sous 600 px. Une étiquette a une hauteur confortable à viser (24px) et deux étiquettes voisines ne
+      se touchent pas. Les cartes sont plus hautes qu'avant la 1.17.1 (un tiers environ à 1 440 px) : faire défiler
+      une longue liste et juger si le défilement reste agréable. Comparer à `docs/images/apercu.png`.
+- [ ] **Badge de l'établissement en texte** (1.17.1) (un établissement sans logo, ou `?sanslogos` dans la
+      démonstration) : l'acronyme est lu en 12px, entier, à droite du nom sans passer dessous ; un nom
+      plus long que 136px est coupé par « … ».
 
 ## 13. Modifier sa fiche (1.12.0, reprise en 1.15.0)
 
@@ -694,6 +709,10 @@ lecteur d'écran : NVDA ou JAWS sous Windows, VoiceOver sous macOS ou iOS, TalkB
       taille normale, comme les titres de groupe et l'adresse e-mail ; on distingue encore les catégories
       d'un coup d'œil, et le point de chaque bouton de filtre a la couleur des pastilles de sa catégorie.
       À comparer avec `docs/images/carte-anatomie.png`.
+- [ ] **Cibles à la souris** (1.17.1) : cliquer sur une étiquette de carte (elle ajoute le filtre correspondant),
+      sur le bouton « Modifier » de sa propre carte et sur le lien e-mail : chaque clic touche la bonne cible du
+      premier coup, sans toucher la voisine ; passer de l'une à l'autre à la souris ne donne pas l'impression de
+      viser trop petit.
 - [ ] **Interrupteur de présence au clavier** (1.16.3) : tabuler jusqu'à « Apparaître dans l'annuaire »
       (compte identifié, fiche présente) et appuyer sur **Espace** : l'interrupteur bascule et **l'anneau
       violet reste sur lui**, pendant « Enregistrement… » comme après ; la touche Tab suivante va au champ de

diff --git a/docs/utilisateurs.md b/docs/utilisateurs.md
@@ -494,11 +494,11 @@ Le bandeau ne montre que les établissements **fondateurs** qui ont **validé** 
 
 **Puis-je utiliser l'annuaire sur mon téléphone ?**
 
-Oui : l'annuaire s'adapte à la largeur de la zone que Grist lui donne. Sur un petit écran ou dans un panneau étroit, les cartes passent sur une colonne, la recherche et les filtres s'empilent, le texte est plus grand et les boutons sont plus faciles à toucher. Cet affichage a été vérifié dans un navigateur de bureau avec un écran tactile simulé, pas encore sur un téléphone : signalez à l'administrateur des données ce qui s'afficherait mal.
+Oui : l'annuaire s'adapte à la largeur de la zone que Grist lui donne. Sur un petit écran ou dans un panneau étroit, les cartes passent sur une colonne, la recherche et les filtres s'empilent, les noms des personnes sont un peu plus grands et les boutons plus faciles à toucher. Le texte des cartes, étiquettes comprises, a la même taille à toutes les largeurs, assez grande pour se lire sans effort (12 px au moins). Cet affichage a été vérifié dans un navigateur de bureau avec un écran tactile simulé, pas encore sur un téléphone : signalez à l'administrateur des données ce qui s'afficherait mal.
 
 **Puis-je utiliser l'annuaire au clavier, ou avec un lecteur d'écran ?**
 
-Oui, en grande partie. La touche **Tab** passe d'un contrôle au suivant (l'interrupteur de « Ma présence », la recherche, les boutons de filtre, Fondateurs et Partenaires, Réinitialiser, puis les étiquettes et les boutons de chaque carte) et **Maj+Tab** revient en arrière ; **Entrée** ou **Espace** active le contrôle, y compris le bouton d'un filtre, qui ouvre ou referme son menu. Un **anneau violet** entoure le contrôle sur lequel on se trouve. Le champ de recherche est annoncé « Rechercher par nom ou prénom ». L'interrupteur de « Ma présence » garde le focus pendant et après l'enregistrement et le résultat est annoncé ; il reste lisible en mode contraste élevé et sans animation si votre système demande de les réduire. Ces points sont vérifiés par des tests automatiques dans un navigateur de bureau, pas encore avec un lecteur d'écran réel. Deux limites connues : la touche Échap ne referme pas encore un menu de filtre (cliquez ailleurs, ou appuyez de nouveau sur son bouton), et un lecteur d'écran relit toute la liste des cartes à chaque changement de recherche. Signalez à l'administrateur des données ce qui vous gênerait.
+Oui, en grande partie. La touche **Tab** passe d'un contrôle au suivant (l'interrupteur de « Ma présence », la recherche, les boutons de filtre, Fondateurs et Partenaires, Réinitialiser, puis les étiquettes et les boutons de chaque carte) et **Maj+Tab** revient en arrière ; **Entrée** ou **Espace** active le contrôle, y compris le bouton d'un filtre, qui ouvre ou referme son menu. Un **anneau violet** entoure le contrôle sur lequel on se trouve. Le champ de recherche est annoncé « Rechercher par nom ou prénom ». L'interrupteur de « Ma présence » garde le focus pendant et après l'enregistrement et le résultat est annoncé ; il reste lisible en mode contraste élevé et sans animation si votre système demande de les réduire. Le texte des cartes fait 12 px au moins et les étiquettes 24 px de haut, pour se lire et se viser plus facilement à la souris. Ces points sont vérifiés par des tests automatiques dans un navigateur de bureau, pas encore avec un lecteur d'écran réel. Deux limites connues : la touche Échap ne referme pas encore un menu de filtre (cliquez ailleurs, ou appuyez de nouveau sur son bouton), et un lecteur d'écran relit toute la liste des cartes à chaque changement de recherche. Signalez à l'administrateur des données ce qui vous gênerait.
 
 **Mes coordonnées sont-elles visibles par tout le monde ?**
 

diff --git a/specs.md b/specs.md
@@ -2,7 +2,7 @@ Cahier des charges
 
 
 
-UI/UX : Une UI/UX moderne, colorée et agréable à la navigation sur PC. Le widget s'adapte aussi à la largeur de son cadre Grist (demande d'Antoine du 12/10/2026, 1.9.1) : utilisable sans défilement horizontal de 320px de large (téléphone, panneau étroit) à un grand écran, la mise en page « PC » restant celle de référence à partir de 1400px. Accessible au clavier et aux lecteurs d'écran (audit UI/UX du 12/10/2026, 1.14.1) : chaque contrôle a un nom et un anneau de focus violet le désigne quand on tabule.
+UI/UX : Une UI/UX moderne, colorée et agréable à la navigation sur PC. Le widget s'adapte aussi à la largeur de son cadre Grist (demande d'Antoine du 12/10/2026, 1.9.1) : utilisable sans défilement horizontal de 320px de large (téléphone, panneau étroit) à un grand écran, la mise en page « PC » restant celle de référence à partir de 1400px. Accessible au clavier et aux lecteurs d'écran (audit UI/UX du 12/10/2026, 1.14.1) : chaque contrôle a un nom et un anneau de focus violet le désigne quand on tabule. Lisible à la souris comme au doigt (audit UI/UX, 1.17.1) : le texte des cartes fait 12px au moins et les pastilles 24px de haut au moins.
 
 
 

diff --git a/VERSION.md b/VERSION.md
@@ -1,4 +1,4 @@
-# Version 1.16.3 — Interrupteur de présence accessible (voir CHANGELOG.md)
+# Version 1.17.1 — Texte de 12 px et pastilles de 24 px (voir CHANGELOG.md)
 
 Le widget lit la table `BDD` (1.8.0), range les compétences par domaine dans un seul
 menu « Compétences » (un filtre « Domaines » séparé en 1.9.0, intégré à ce menu en
@@ -19,4 +19,6 @@ la recherche trouve « prénom nom » dans n'importe quel ordre, tirets, apostro
 sont assez foncés pour être lus (4,5:1 au moins avec le blanc, audit UI/UX). Depuis la 1.16.3,
 l'interrupteur de présence garde le focus pendant l'écriture, annonce sa réussite aux lecteurs d'écran,
 a une piste à 3:1 au moins de son fond et reste lisible en contraste élevé (audit UI/UX).
-652 tests (dont 227 dans un vrai navigateur, optionnels sans Playwright).
+Depuis la 1.17.1, tout le texte des cartes fait 12 px au moins et les pastilles 24 px de haut : les cartes
+sont plus hautes d'un tiers environ, un écart voulu avec la maquette v5 (audit UI/UX).
+657 tests (dont 232 dans un vrai navigateur, optionnels sans Playwright).
